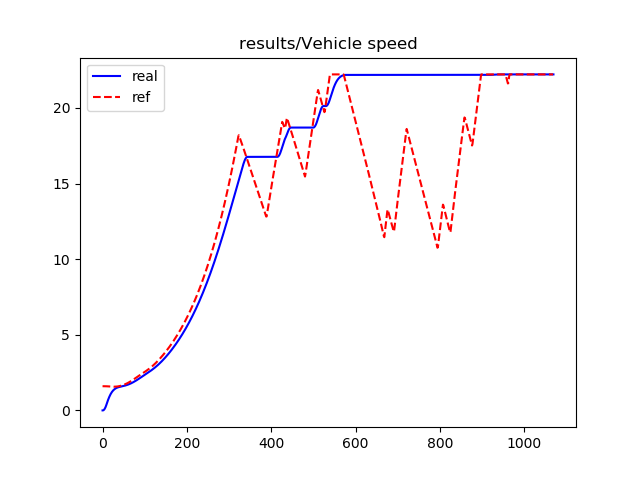
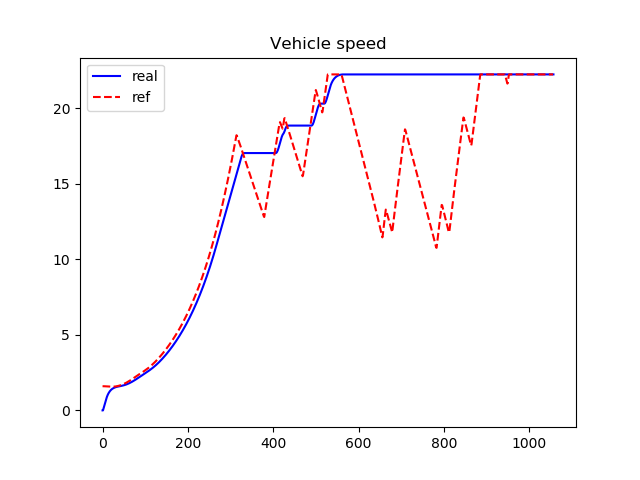
add results

diff --git a/controller2d.py b/controller2d.py
@@ -7,22 +7,11 @@
 import numpy as np
 from collections import deque
 
-
-class CUtils(object):
-    def __init__(self):
-        pass
-
-    def create_var(self, var_name, value):
-        if not var_name in self.__dict__:
-            self.__dict__[var_name] = value
-
-
 dt = 0.1
 
 
 class Controller2D(object):
     def __init__(self, waypoints):
-        self.vars = CUtils()
         self._current_x = 0
         self._current_y = 0
         self._current_yaw = 0
@@ -40,13 +29,10 @@ class Controller2D(object):
         self._2pi = 2.0 * np.pi
         self.e_buffer = deque(maxlen=30)
 
-        # self.K_P = 1.0
-        # self.K_D = 0.01
-        # self.K_I = 1.0
-
-        self.K_P = 1
-        self.K_D = 0.0000001
-        self.K_I = 0.2
+        # parameters for pid speed controller
+        self.K_P = 1.0
+        self.K_D = 0.0
+        self.K_I = 0.3
 
     def update_values(self, x, y, yaw, speed):
         self._current_x = x
@@ -73,18 +59,14 @@ class Controller2D(object):
     def update_waypoints(self, new_waypoints):
         self._waypoints = new_waypoints
 
-    def get_commands(self):
-        return self._set_throttle, self._set_steer, self._set_brake
-
     def set_throttle(self, input_throttle):
         # Clamp the throttle command to valid bounds
         throttle = np.fmax(np.fmin(input_throttle, 1.0), 0.0)
         self._set_throttle = throttle
 
     def set_steer(self, input_steer_in_rad):
-        # Covnert radians to [-1, 1]
+        # Convert radians to [-1, 1]
         input_steer = self._conv_rad_to_steer * input_steer_in_rad
-
         # Clamp the steering command to valid bounds
         steer = np.fmax(np.fmin(input_steer, 1.0), -1.0)
         self._set_steer = steer
@@ -105,34 +87,7 @@ class Controller2D(object):
         self.update_desired_speed()
         v_desired = self._desired_speed
         waypoints = self._waypoints
-        throttle_output = 0
 
-        ######################################################
-        ######################################################
-        # MODULE 7: DECLARE USAGE VARIABLES HERE
-        ######################################################
-        ######################################################
-        """
-            Use 'self.vars.create_var(<variable name>, <default value>)'
-            to create a persistent variable (not destroyed at each iteration).
-            This means that the value can be stored for use in the next
-            iteration of the control loop.
-
-            Example: Creation of 'v_previous', default value to be 0
-            self.vars.create_var('v_previous', 0.0)
-
-            Example: Setting 'v_previous' to be 1.0
-            self.vars.v_previous = 1.0
-
-            Example: Accessing the value from 'v_previous' to be used
-            throttle_output = 0.5 * self.vars.v_previous
-        """
-        self.vars.create_var('v_previous', 0.0)
-        self.vars.create_var('throttle_previous', 0.0)
-        self.vars.create_var('int_val', 0.0)
-        self.vars.create_var('last_error', 0.0)
-
-        # Skip the first frame to store previous values properly
         if self._start_control_loop:
             """
                 Controller iteration code block.
@@ -166,20 +121,7 @@ class Controller2D(object):
                     brake_output    : Brake output (0 to 1)
             """
 
-            ######################################################
-            ######################################################
-            # MODULE 7: IMPLEMENTATION OF LONGITUDINAL CONTROLLER HERE
-            ######################################################
-            ######################################################
-            """
-                Implement a longitudinal controller here. Remember that you can
-                access the persistent variables declared above here. For
-                example, can treat self.vars.v_previous like a "global variable".
-            """
-
-            # Change these outputs with the longitudinal controller. Note that
-            # brake_output is optional and is not required to pass the
-            # assignment, as the car will naturally slow down over time.
+            # LONGITUDINAL CONTROLLER HERE
             brake_output = 0
 
             _e = v_desired - v
@@ -192,29 +134,10 @@ class Controller2D(object):
                 _de = 0.0
                 _ie = 0.0
 
-            # throttle_output = np.clip((self.K_P * _e) + (self.K_D * _de / dt) + (self.K_I * _ie * dt), 0.0, 1.0)
+            throttle_output = np.clip((self.K_P * _e) + (self.K_D * _de / dt) + (self.K_I * _ie * dt), 0.0, 1.0)
 
-            rst = self.K_P * _e + self.K_D * _de / dt + self.K_I * _ie * dt
-            if rst > 0:
-                throttle_output = np.tanh(rst)
-                throttle_output = max(0.0, min(1.0, throttle_output))
-                if throttle_output - self.vars.throttle_previous > 0.1:
-                    throttle_output = self.vars.throttle_previous + 0.1
-            else:
-                throttle_output = 0
-
-            ######################################################
-            ######################################################
-            # MODULE 7: IMPLEMENTATION OF LATERAL CONTROLLER HERE
-            ######################################################
-            ######################################################
-            """
-                Implement a lateral controller here. Remember that you can
-                access the persistent variables declared above here. For
-                example, can treat self.vars.v_previous like a "global variable".
-            """
-            # Use stanley controller for lateral control
-            # 0. spectify stanley params
+            # LATERAL CONTROLLER HERE
+            # Use stanley controller for lateral control.
             k_e = 0.3
             k_v = 10
 
@@ -257,22 +180,7 @@ class Controller2D(object):
             # 4. update
             steer_output = steer_expect
 
-            ######################################################
             # SET CONTROLS OUTPUT
-            ######################################################
             self.set_throttle(throttle_output)  # in percent (0 to 1)
             self.set_steer(steer_output)  # in rad (-1.22 to 1.22)
             self.set_brake(brake_output)  # in percent (0 to 1)
-
-        ######################################################
-        ######################################################
-        # MODULE 7: STORE OLD VALUES HERE (ADD MORE IF NECESSARY)
-        ######################################################
-        ######################################################
-        """
-            Use this block to store old values (for example, we can store the
-            current x, y, and yaw values here using persistent variables for use
-            in the next iteration)
-        """
-        self.vars.v_previous = v  # Store forward speed to be used in next step
-        self.vars.throttle_previous = throttle_output

diff --git a/main.py b/main.py
@@ -11,7 +11,16 @@ INTERP_DISTANCE_RES = 0.01  # distance between interpolated points
 INTERP_LOOKAHEAD_DISTANCE = 20  # lookahead in meters
 DIST_THRESHOLD_TO_LAST_WAYPOINT = 4.0  # some distance from last position before simulation ends
 
+# use linear or nonlinear bicycle models
 non_linear_model = True  # True, False
+if non_linear_model:
+    trajectory_path = "trajectory_non_linear.png"
+    speed_path = "speed_non_linear.png"
+else:
+    trajectory_path = "trajectory_linear.png"
+    speed_path = "speed_linear.png"
+
+# show the animation plot during the simulation, default is False.
 show_animation = False
 
 
@@ -39,8 +48,8 @@ def main():
         # Linearly interpolate between waypoints and store in a list
         wp_interp = []  # interpolated values
         # (rows = waypoints, columns = [x, y, v])
-        wp_interp_hash = []  # hash table which indexes waypoints_np
-        # to the index of the waypoint in wp_interp
+        wp_interp_hash = []
+        # hash table which indexes waypoints_np to the index of the waypoint in wp_interp
         interp_counter = 0  # counter for current interpolated point index
         reached_the_end = False
 
@@ -168,7 +177,7 @@ def main():
 
             controller.update_controls()
             speed_ref.append(controller._desired_speed)
-            cmd_throttle, cmd_steer, cmd_brake = controller.get_commands()
+            cmd_throttle, cmd_steer, cmd_brake = controller._set_throttle, controller._set_steer, controller._set_brake
 
             # Output controller command to the vehicle and update the states
             state.update(a=cmd_throttle, delta=cmd_steer)
@@ -216,14 +225,14 @@ def plot_fn(x_history, y_history, x_ref, y_ref, speed_history, speed_ref):
     plt.xlim(-250, 400)
     plt.ylim(-800, 100)
     plt.legend()
-    plt.savefig('results/trajectory_non_linear.png')  # trajectory_non_linear. trajectory_linear
+    plt.savefig('results/' + trajectory_path)  # trajectory_non_linear. trajectory_linear
 
     plt.figure(2)
     plt.plot(speed_history, 'b-', label='real')
     plt.plot(speed_ref, 'r--', label='ref')
-    plt.title('results/Vehicle speed')
+    plt.title('Vehicle speed')
     plt.legend()
-    plt.savefig('results/speed_non_linear.png')  # speed_non_linear. speed_linear
+    plt.savefig('results/' + speed_path)  # speed_non_linear. speed_linear
 
 
 if __name__ == '__main__':
